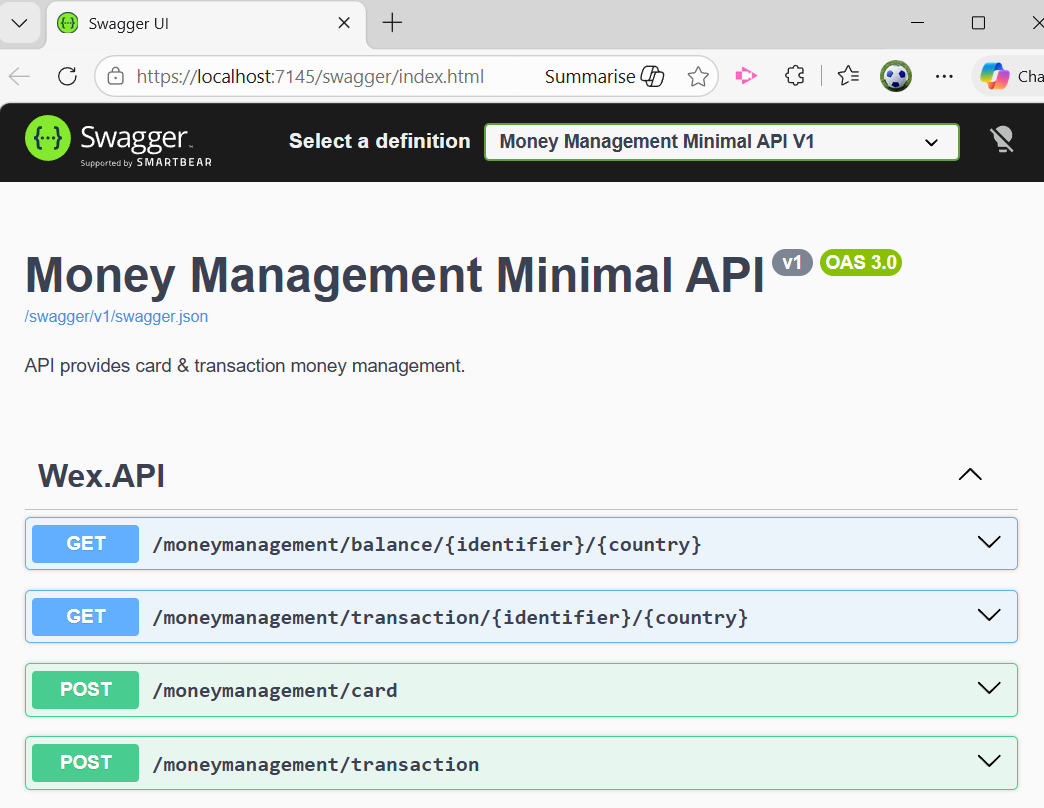
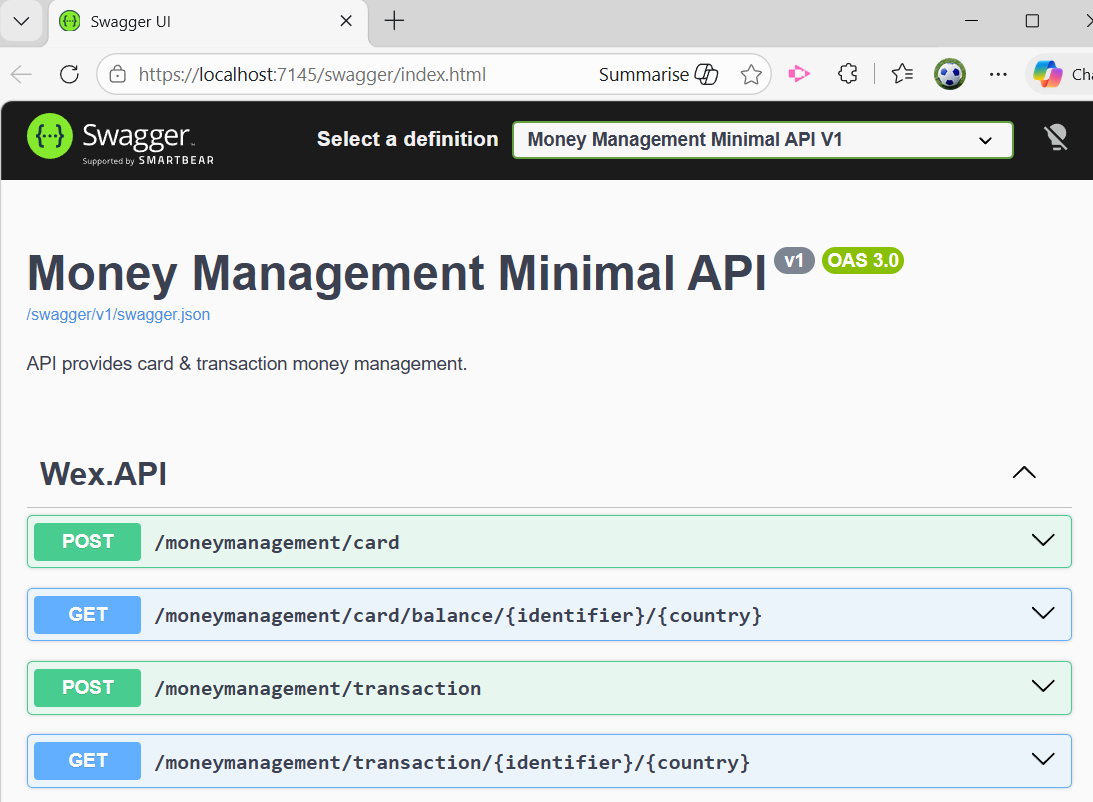
minor refactoring. updated swagger screenshot.

diff --git a/Wex.API/Program.cs b/Wex.API/Program.cs
@@ -12,7 +12,14 @@ startup.ConfigureServices(builder.Services);
 var app = builder.Build();
 startup.Configure(app, app.Environment);
 
-app.MapGet("/moneymanagement/balance/{identifier}/{country?}", async (string identifier, string? country,
+// Minimal API endpoints
+app.MapPost("/moneymanagement/card", async (CardCreateModel card, [FromServices] IMoneyManagementService moneyManagementService) =>
+{
+    return await moneyManagementService.AddCardAsync(card);
+})
+.WithName("AddCard");
+
+app.MapGet("/moneymanagement/card/balance/{identifier}/{country?}", async (string identifier, string? country,
                                                     [FromServices] IMoneyManagementService moneyManagementService) =>
 {
     country = string.IsNullOrWhiteSpace(country) ? null : country;
@@ -33,7 +40,14 @@ app.MapGet("/moneymanagement/balance/{identifier}/{country?}", async (string ide
     };
 
     return op;
-}); ;
+});
+
+app.MapPost("/moneymanagement/transaction", async (TransactionCreateModel transaction, [FromServices] IMoneyManagementService moneyManagementService) =>
+{
+    return await moneyManagementService.AddTransactionAsync(transaction);
+})
+.WithName("AddTransaction");
+
 
 app.MapGet("/moneymanagement/transaction/{identifier}/{country?}", async (string identifier, string? country,
                                                     [FromServices] IMoneyManagementService moneyManagementService) =>
@@ -57,17 +71,5 @@ app.MapGet("/moneymanagement/transaction/{identifier}/{country?}", async (string
 
     return op;
 });
-
-app.MapPost("/moneymanagement/card", async (CardCreateModel card, [FromServices] IMoneyManagementService moneyManagementService) =>
-{
-    return await moneyManagementService.AddCardAsync(card);
-})
-.WithName("AddCard");
-
-app.MapPost("/moneymanagement/transaction", async (TransactionCreateModel transaction, [FromServices] IMoneyManagementService moneyManagementService) =>
-{
-    return await moneyManagementService.AddTransactionAsync(transaction);
-})
-.WithName("AddTransaction");
 
 app.Run();

diff --git a/Wex.Tests/API/APITests.cs b/Wex.Tests/API/APITests.cs
@@ -23,7 +23,7 @@ namespace Wex.Tests.API
         {
             // Arrange
             // Minimal API url with user input
-            var apiUrl = $"/moneymanagement/balance/{identifier}/{country}";
+            var apiUrl = $"/moneymanagement/card/balance/{identifier}/{country}";
 
             // Act
             var response = await _httpClient.GetAsync(apiUrl);
